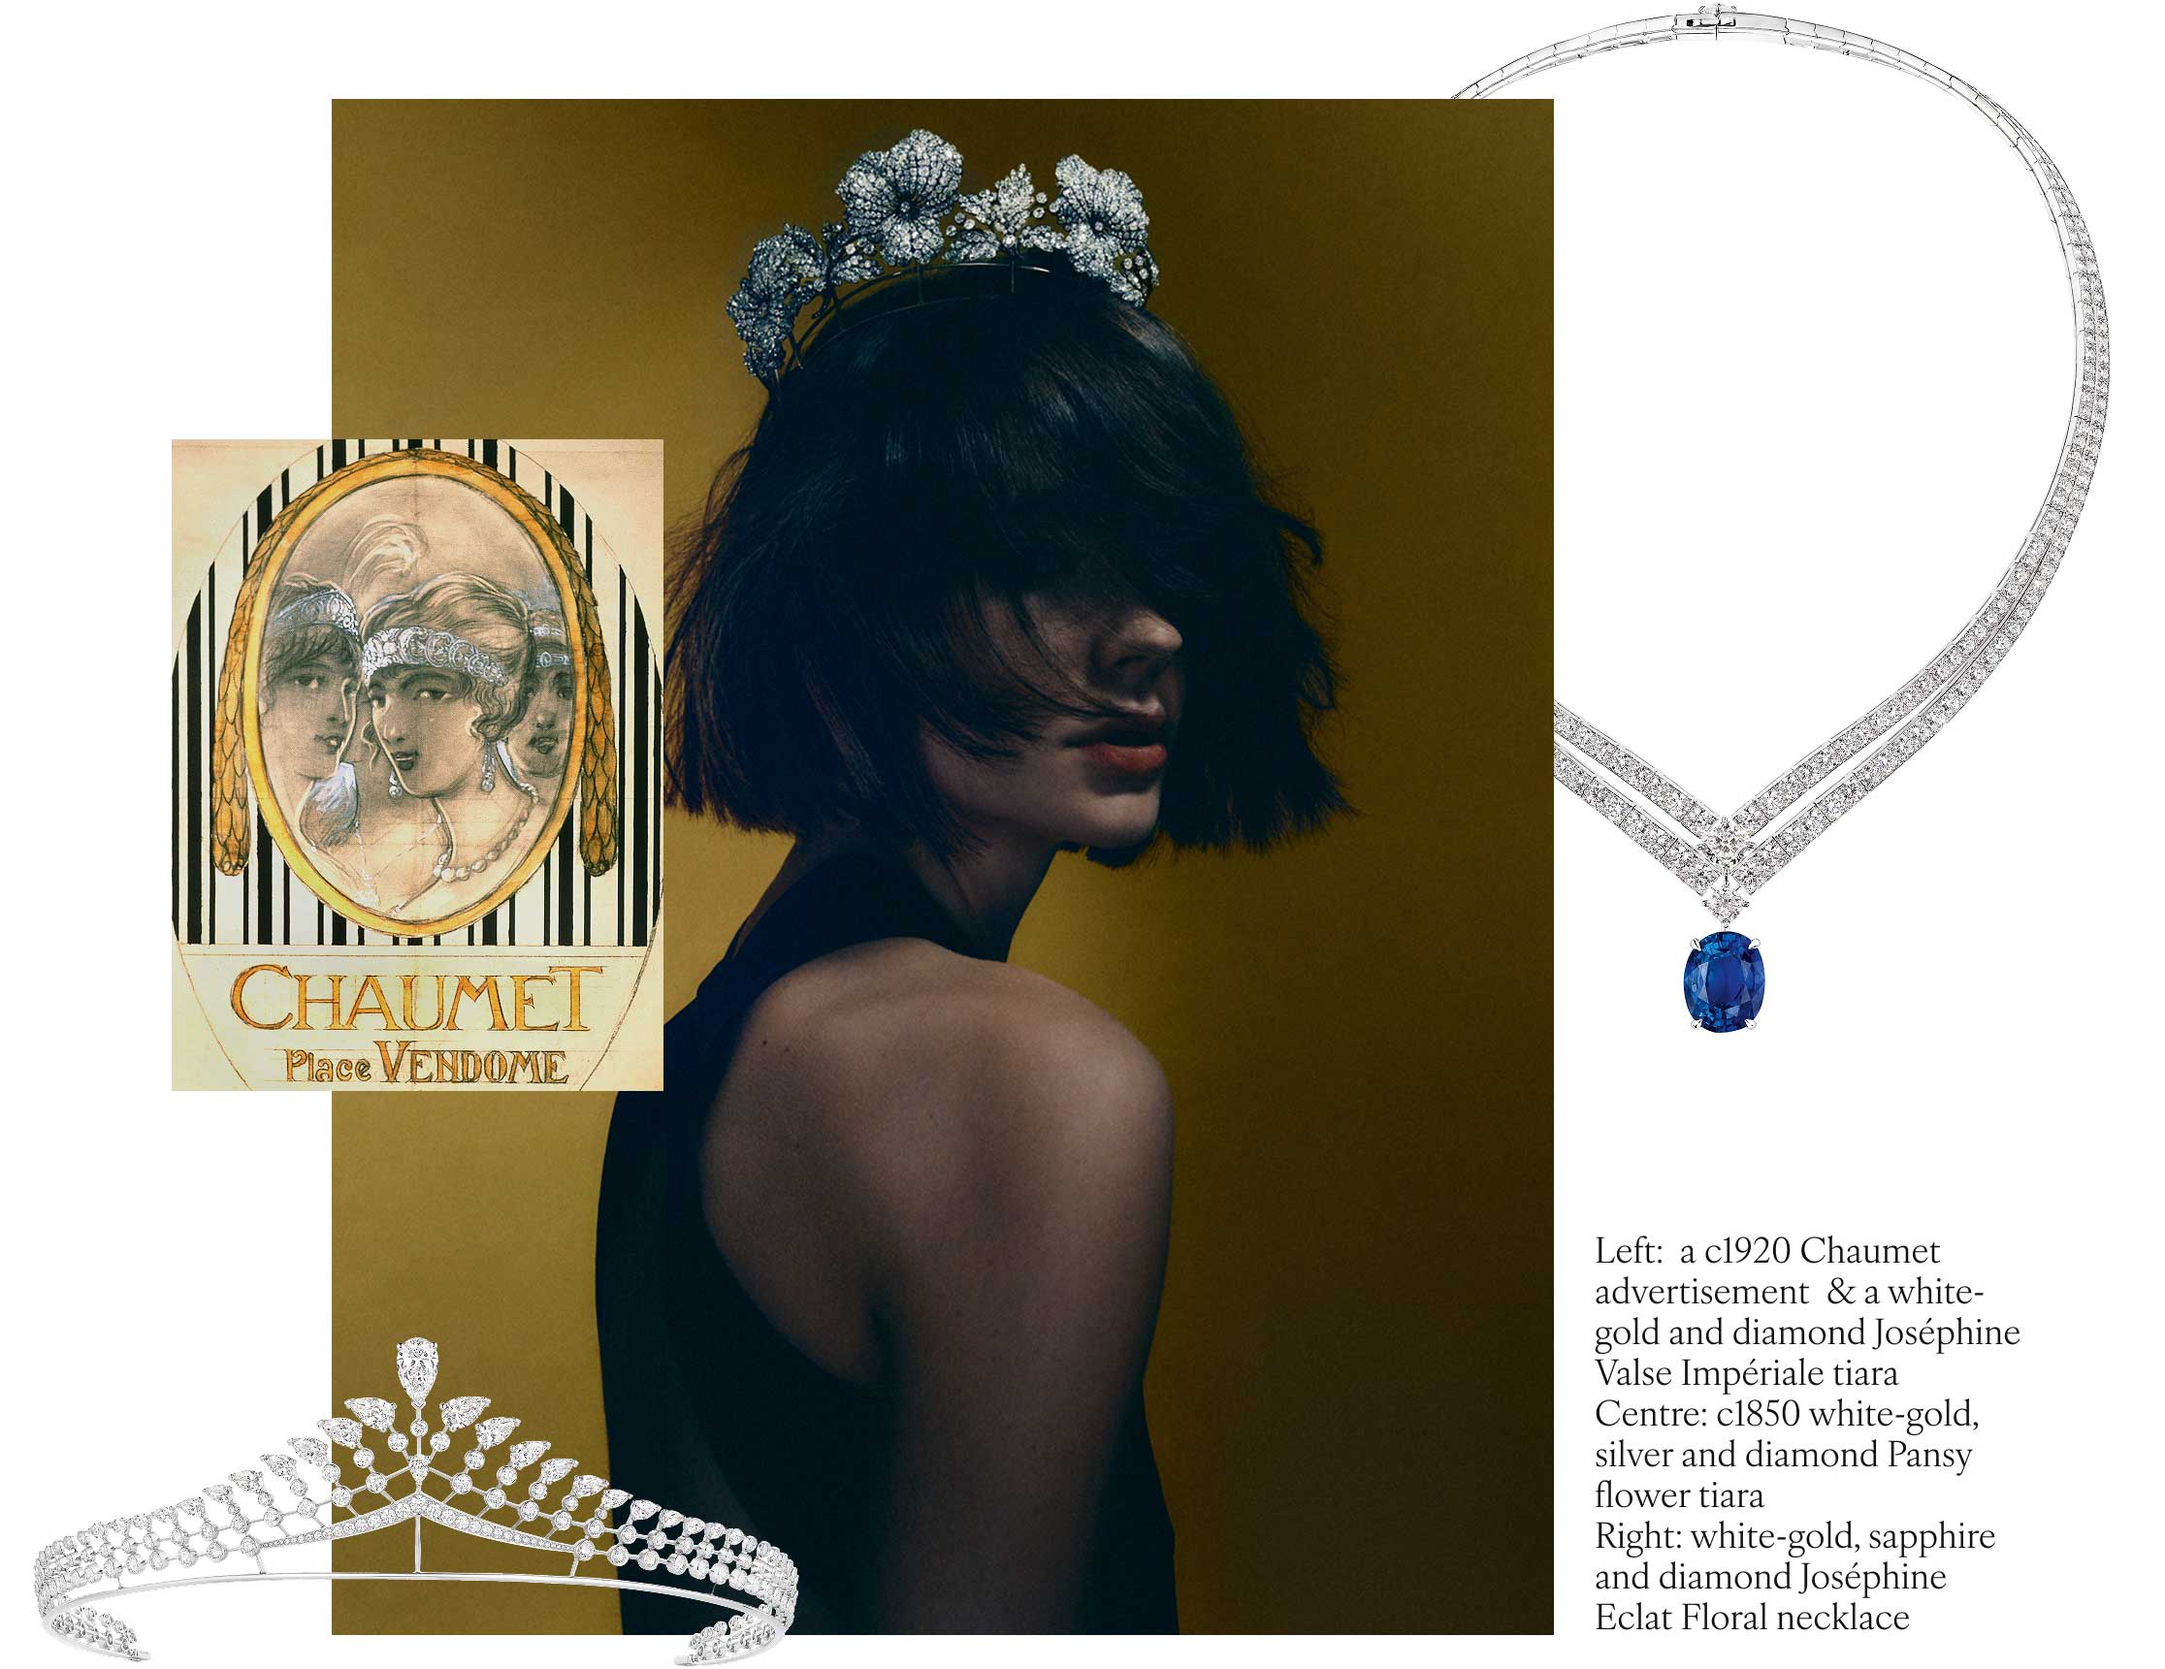
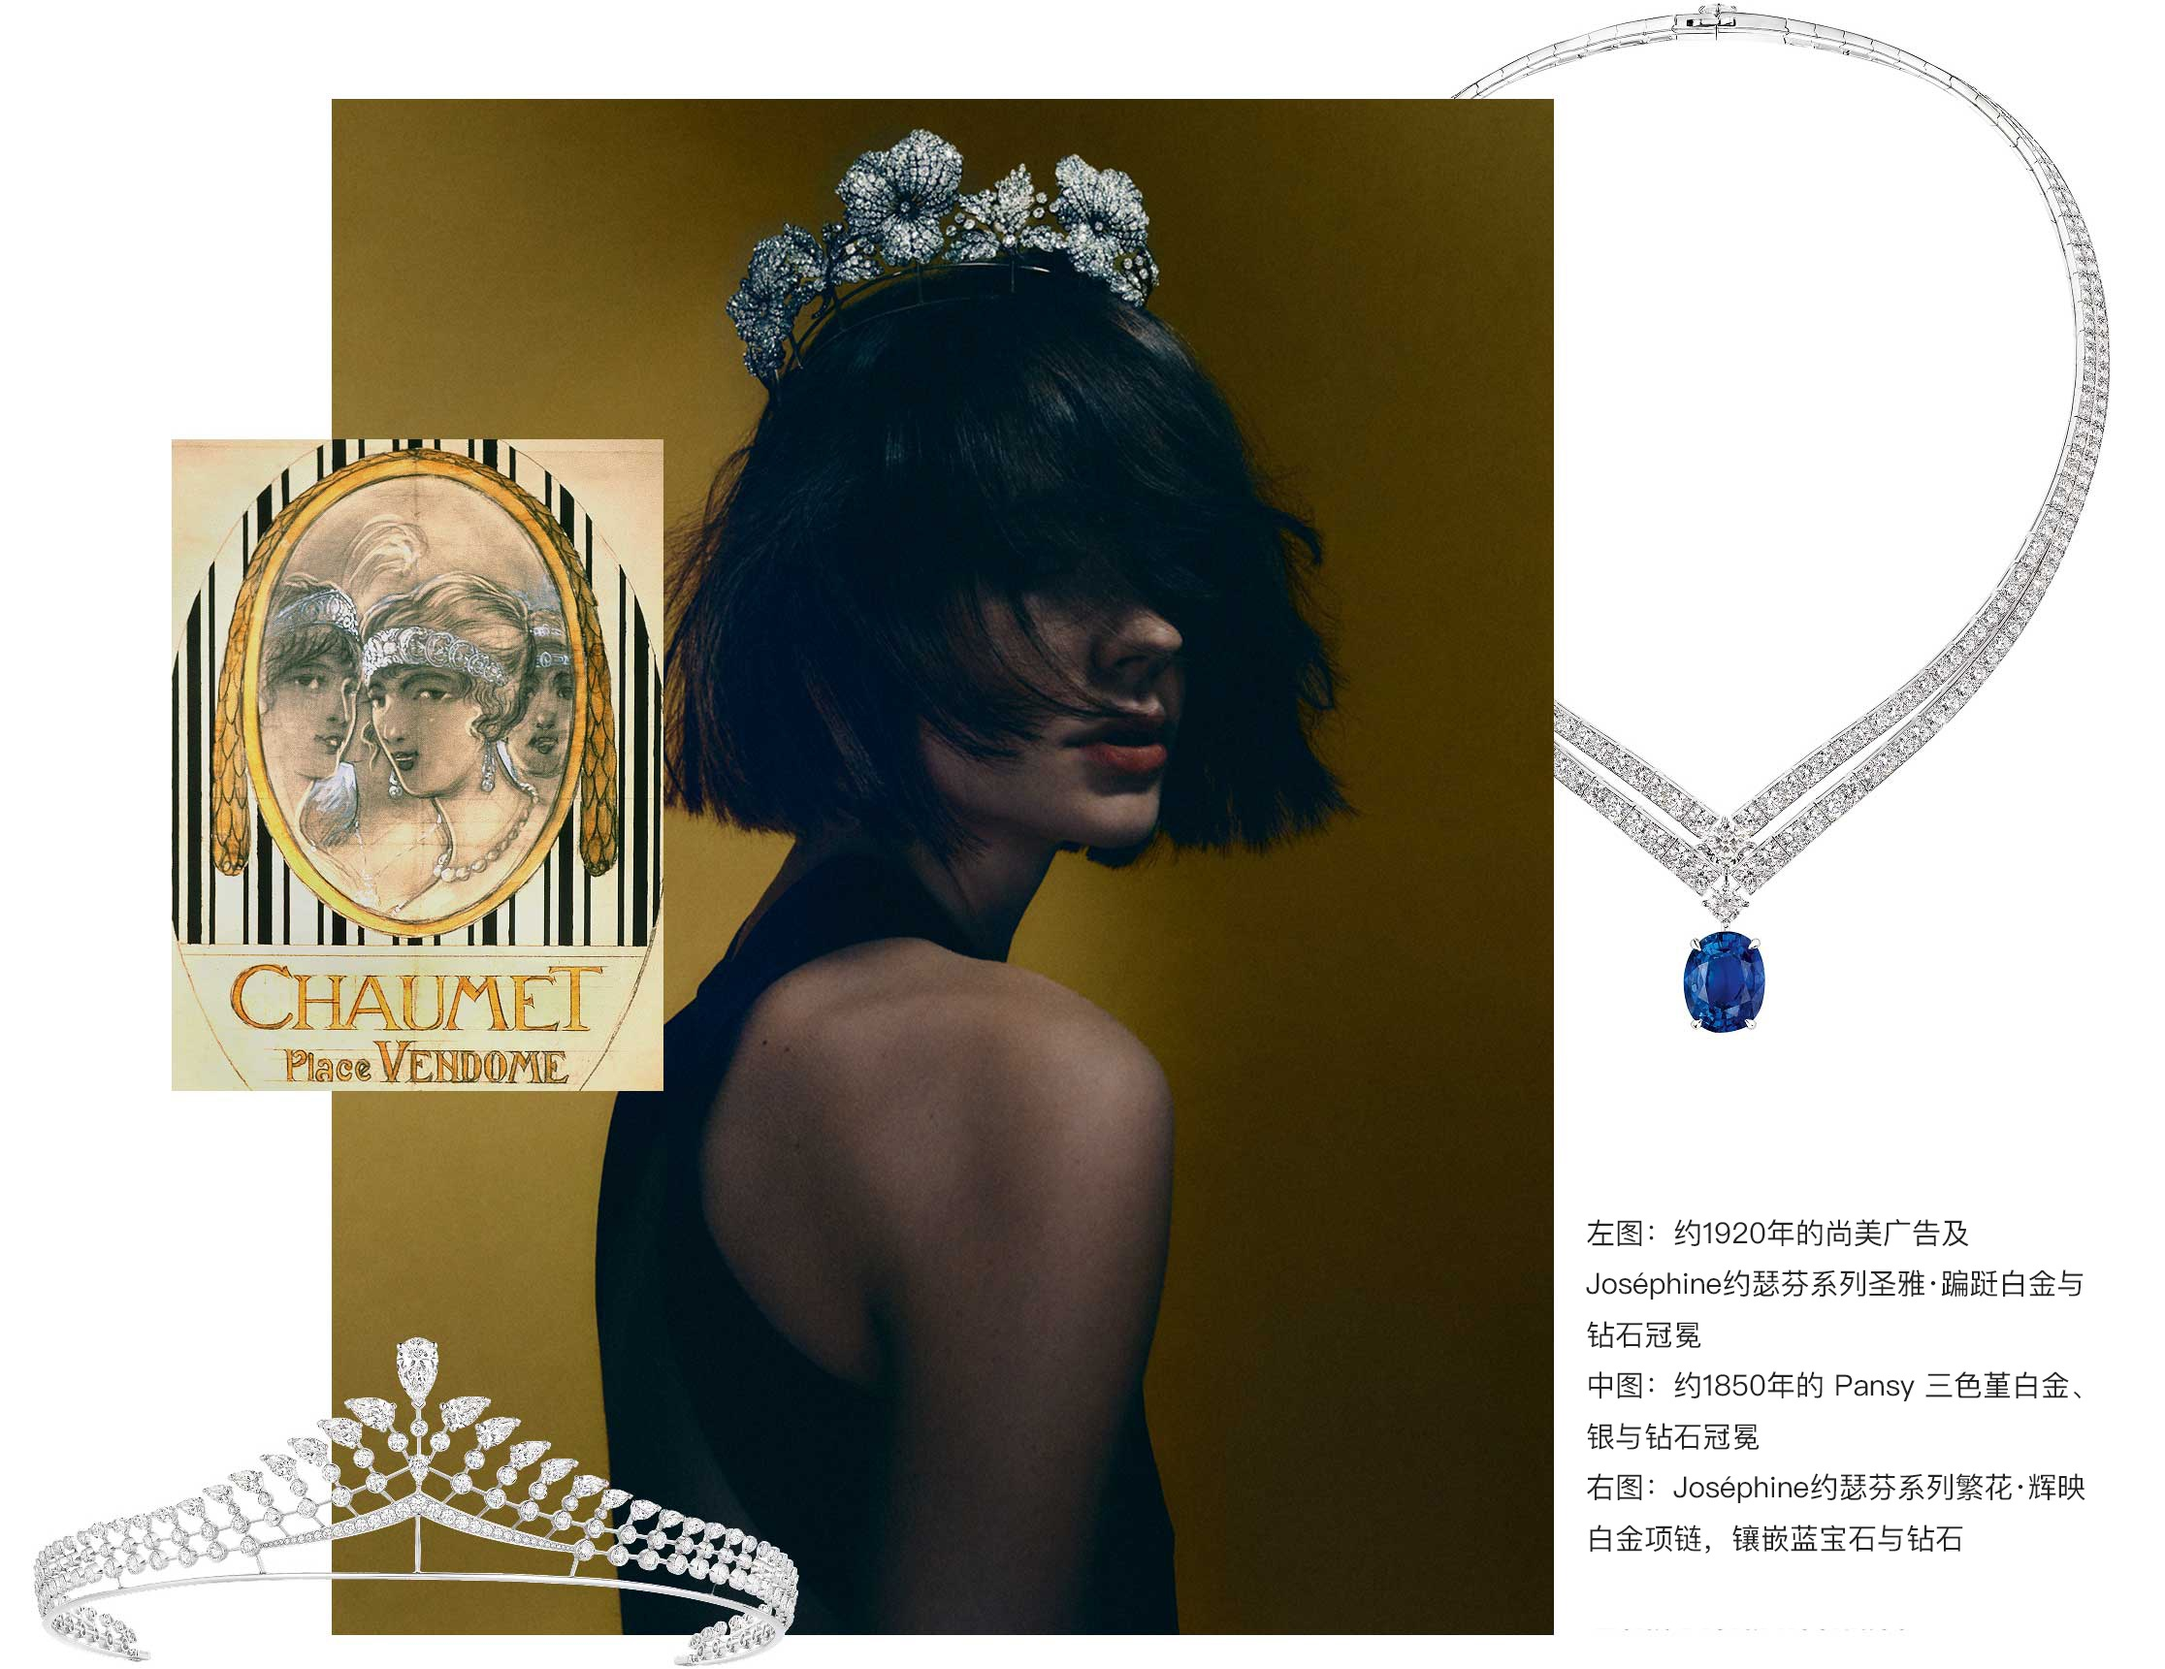
revised 3 pic in Chinese for chaumet page

Changed region(s): [[0.711, 0.7083, 0.9583, 0.9855]]

diff --git a/chaumet/power-and-poise-sc.html b/chaumet/power-and-poise-sc.html
@@ -370,7 +370,7 @@
     <div class="cta-section__inner">
       <h2 class="cta-section__title" id="cta-section-title">自1780年，为非凡故事加冕</h2>
       <p class="cta-section__copy"></p>
-      <a class="cta-section__button cta" href="#">了解更多</a>
+      <a class="cta-section__button cta" href="https://www.chaumet.com/cn_zh/signature-collection-royals">了解更多</a>
     </div>
   </div>
   
